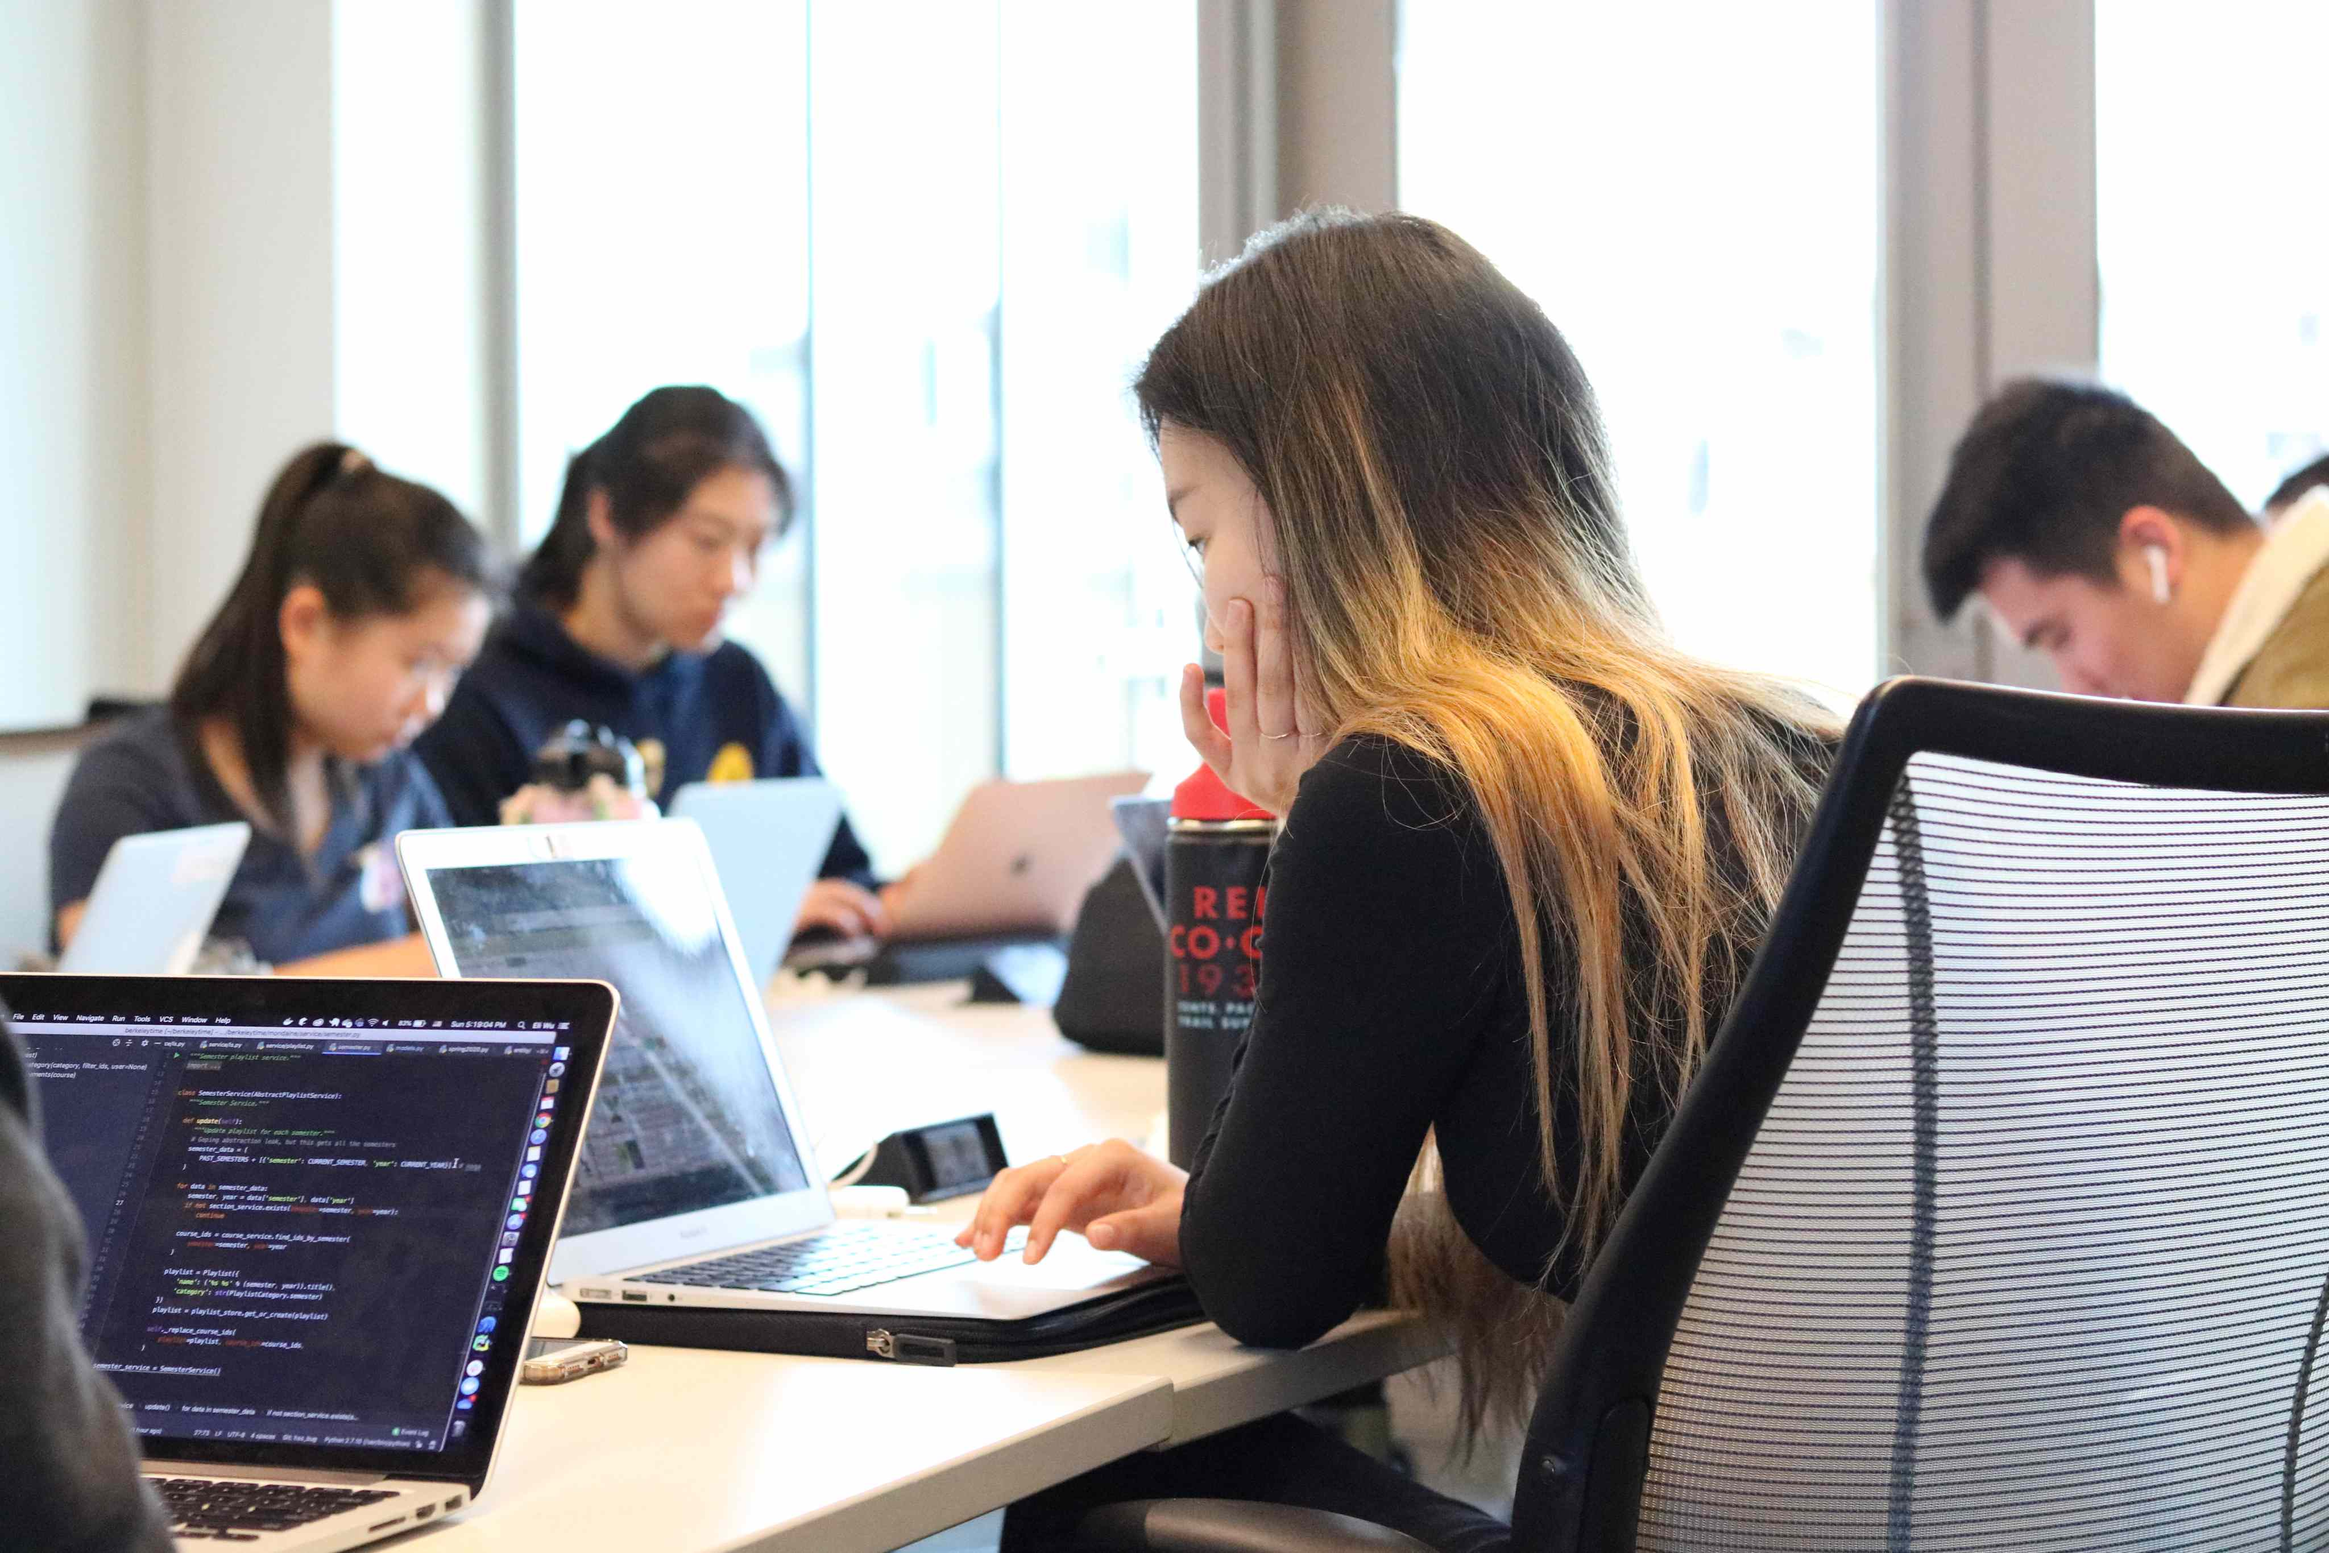
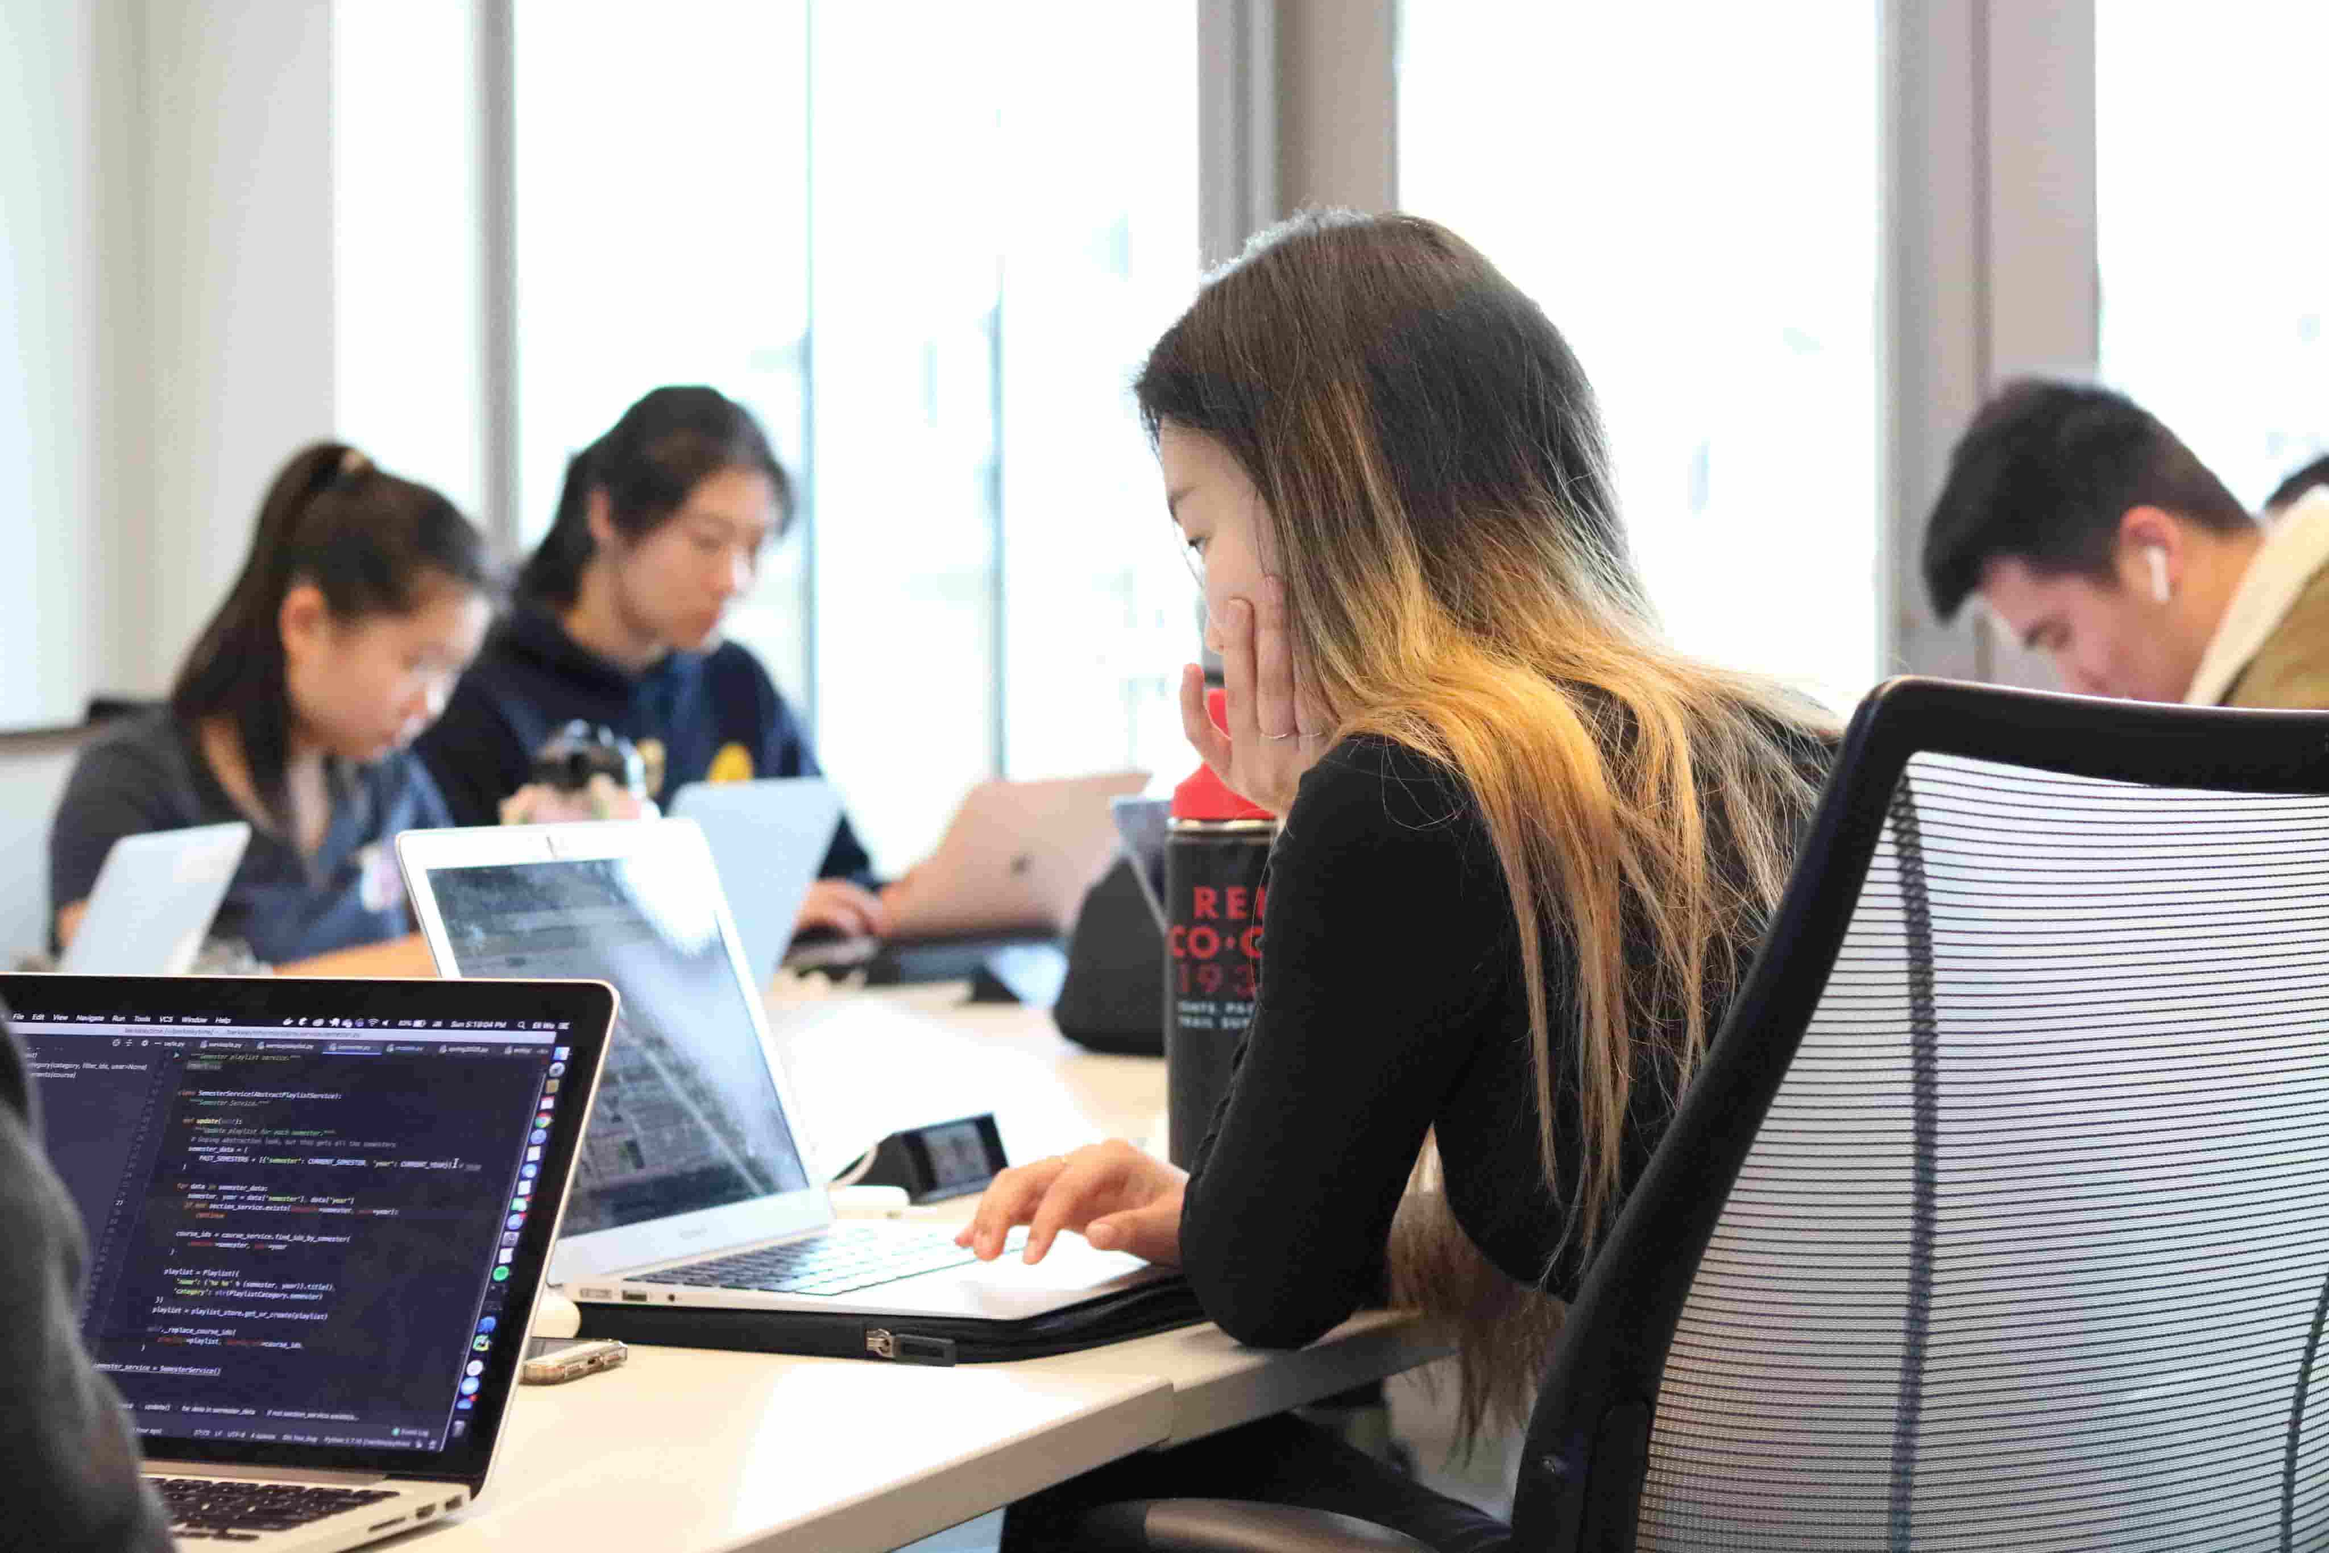
fix margin top, compress images

diff --git a/frontend/src/assets/scss/bt/_join.scss b/frontend/src/assets/scss/bt/_join.scss
@@ -1,19 +1,15 @@
 .join {
   padding-top: $bt-navbar-height;
-  margin: 32px auto 30px auto;
+  margin: 0 auto 30px auto;
   display: flex;
   flex-direction: column;
   align-items: center;
 
-
-
   .releases-heading-button{
       justify-content: center;
-      margin: 0 0px 12px 0px;
+      margin: 20px 0px 12px 0px;
       flex-direction: row;
       padding-top: 0px;
-
-
 
       input {
         overflow: visible;
@@ -48,7 +44,7 @@
   .join-us {
 
     > h5 {
-      margin-top: 28px;
+      margin-top: 50px;
       text-align: center;
 
       font-weight: bold;

diff --git a/frontend/src/assets/scss/bt/_forms.scss b/frontend/src/assets/scss/bt/_forms.scss
@@ -1,6 +1,6 @@
 .bt-form-page {
   padding-top: $bt-navbar-height;
-  margin: 32px auto 30px auto;
+  margin: 0 auto 30px auto;
   display: flex;
   flex-direction: column;
   align-items: center;
@@ -13,7 +13,6 @@
 .bt-form {
 
   justify-content: center;
-  margin-top: 20px;
   margin-bottom: 64px;
   max-width: 500px;
 
@@ -124,7 +123,7 @@
   .bt-form-header {
     margin-bottom: 32px;
     > h5 {
-      margin-top: 28px;
+      margin-top: 50px;
       font-weight: bold;
       color: $bt-base-text;
       font-size: 24px;

diff --git a/frontend/src/assets/scss/bt/_releases.scss b/frontend/src/assets/scss/bt/_releases.scss
@@ -1,5 +1,5 @@
 .releases {
-    margin: 24px auto 30px auto;
+    margin: 0 auto 30px auto;
     padding-top: $bt-navbar-height;
 
     display: flex;
@@ -10,7 +10,7 @@
         h2 {
           font-weight: bold;
           font-size: 24px;
-          margin-top: 32px;
+          margin-top: 50px;
           text-align: center;
           color: $bt-base-text;
         }

diff --git a/frontend/src/assets/scss/bt/_faq.scss b/frontend/src/assets/scss/bt/_faq.scss
@@ -1,8 +1,8 @@
 .faq {
-  padding-top: $bt-navbar-height;
   padding-bottom: 100px;
   width: 100vw;
   min-height: 100vh;
+  padding-top: $bt-navbar-height;
 
   display: flex;
   flex-direction: column;

diff --git a/frontend/src/assets/scss/bt/about/_about.scss b/frontend/src/assets/scss/bt/about/_about.scss
@@ -1,7 +1,6 @@
 .about {
   padding-top: $bt-navbar-height;
 
-
   .releases-heading-button {
       justify-content: center;
       margin-top: 20px;
